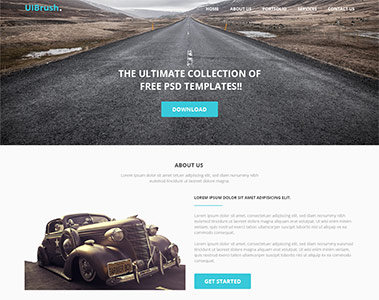
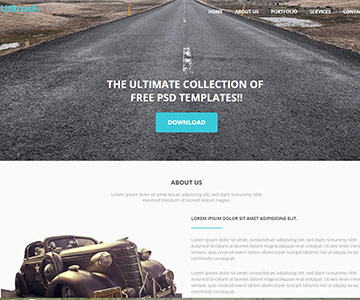
resize pictures, add contrnt to block "about us "

diff --git a/index.html b/index.html
@@ -1,5 +1,5 @@
 <!DOCTYPE html>
-<html lang="zxx">
+<html>
     <head>
         <meta charset="utf-8">
         <meta name="viewport" content="width=device-width, initial-scale=1">
@@ -45,15 +45,13 @@
                 </div>
                 <div class="about-content">
                      <p>
-                        I’m Igor Melnyk. Junior Front-End Web Developer. I produce valid HTML code. Sites are adaptive for mobile devices. I love bring ideas to life with the touch of great design. Want to be member of stong team, ready to work hard.
+                        I’m Igor Melnyk. Junior Front-End Web Developer. I love bring ideas to life with the touch of great design. Want to be member of stong team, ready to work hard.
                     </p>
                     <p>
-                        Now I'm learning task runner Gulp and Node JS platform.
+                        I've used free design mock-ups to create my portfolio. Now I'm learning task runner Gulp
                     </p>
-                    <p>
-                        For portfolio I downloaded free PSD templates from  network.
-                    </p>
-
+                    <p><span>software & technologies:</span> Sublime Text, Photoshop, Git</p>
+                    <p><span>front-end:</span> HTML5/CSS3, JavaScript, JQuery, JQuery UI, SCSS, Bootstrap</p>
                 </div>
                 <div class="clr"></div>
             </div>

diff --git a/css/main.css b/css/main.css
@@ -73,6 +73,9 @@ header .bottom-header {
   margin-right: 25px; }
   .about .avatar img {
     width: 100%; }
+.about .about-content p span {
+  text-transform: uppercase;
+  font-weight: bold; }
 
 .portfolio {
   background: #eeeeee; }
@@ -82,14 +85,14 @@ header .bottom-header {
       margin-bottom: 25px;
       text-align: center;
       transition: all 0.3s; }
-      .portfolio .works .item img {
-        width: 100%; }
       .portfolio .works .item a {
         display: inline-block;
         overflow: hidden;
         transition: transform, 0.3s;
         max-width: 360px;
         max-height: 300px; }
+        .portfolio .works .item a img {
+          width: 100%; }
       .portfolio .works .item a:hover {
         transform: scale(1.1);
         z-index: 4; }

diff --git a/scss/main.scss b/scss/main.scss
@@ -91,7 +91,12 @@ header {
 		}
 	}
 	.about-content {
-
+		p {
+			span {
+				text-transform: uppercase;
+				font-weight: bold;
+			}
+		}
 	}
 }
 .portfolio{
@@ -102,15 +107,15 @@ header {
 			margin-bottom: 25px;
 			text-align: center;
 			transition: all 0.3s;
-			img {
-				width: 100%
-			}
 			a {
 				display: inline-block;
 				overflow: hidden;
 				transition: transform, 0.3s;
 				max-width: 360px;
 				max-height: 300px;
+				img {
+					width: 100%
+				}
 			}
 			a:hover {
                 transform: scale(1.1);
